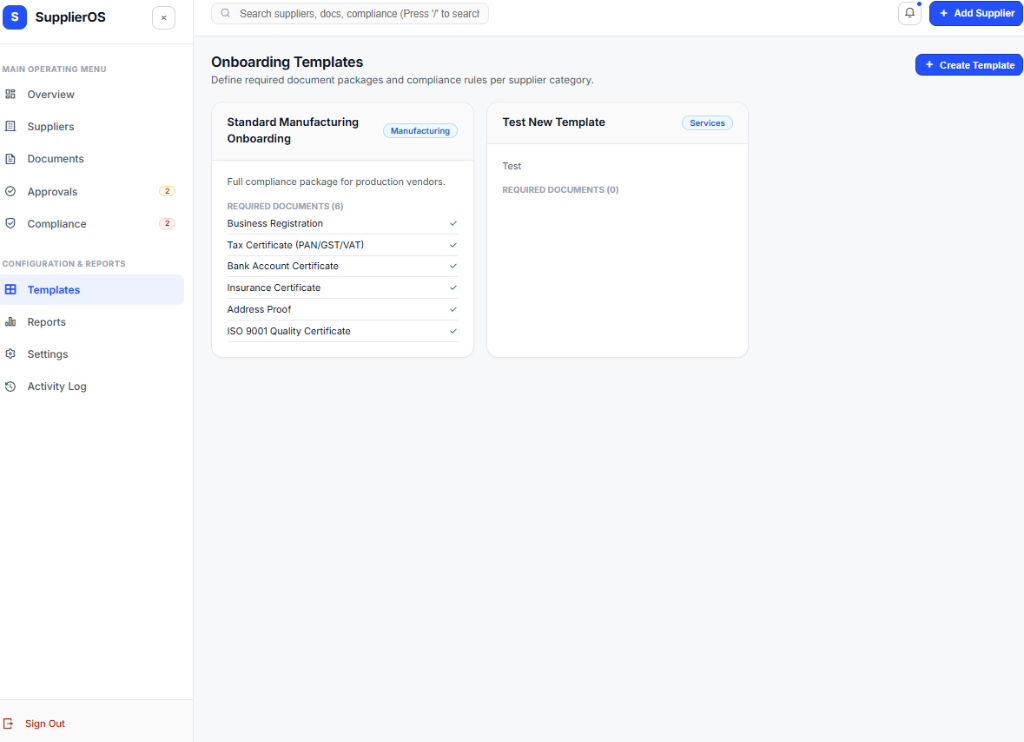
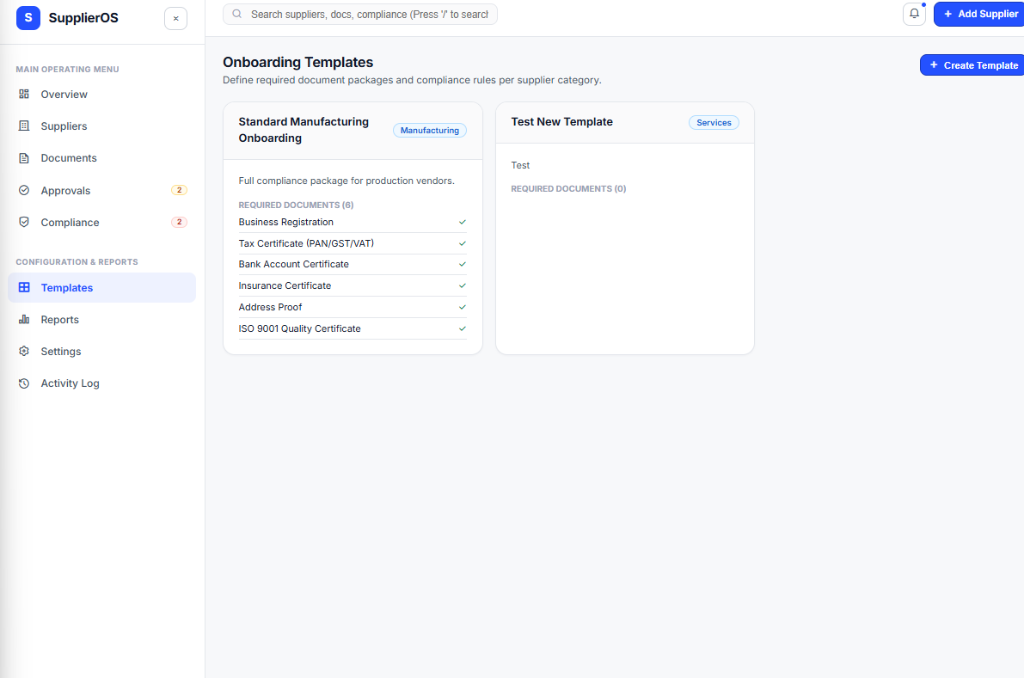
Add SupplierOS Compliance Center tab with risk alerts and document issues tracking

diff --git a/templates/products/saas_offline.html b/templates/products/saas_offline.html
@@ -1341,6 +1341,9 @@ function closeFlModal() {
         <button class="su-tab-btn" onclick="switchSuTab('approvals', '{% static "images/supplier/approvals.png" %}', 'Approval Center & Risk Flag Workspaces')">
             ✅ Approval Center
         </button>
+        <button class="su-tab-btn" onclick="switchSuTab('compliance', '{% static "images/supplier/compliance.png" %}', 'Compliance Center, Risk Alerts & Document Issues')">
+            🛡 Compliance Center
+        </button>
     </div>
 
     <!-- Active View Image Display -->
